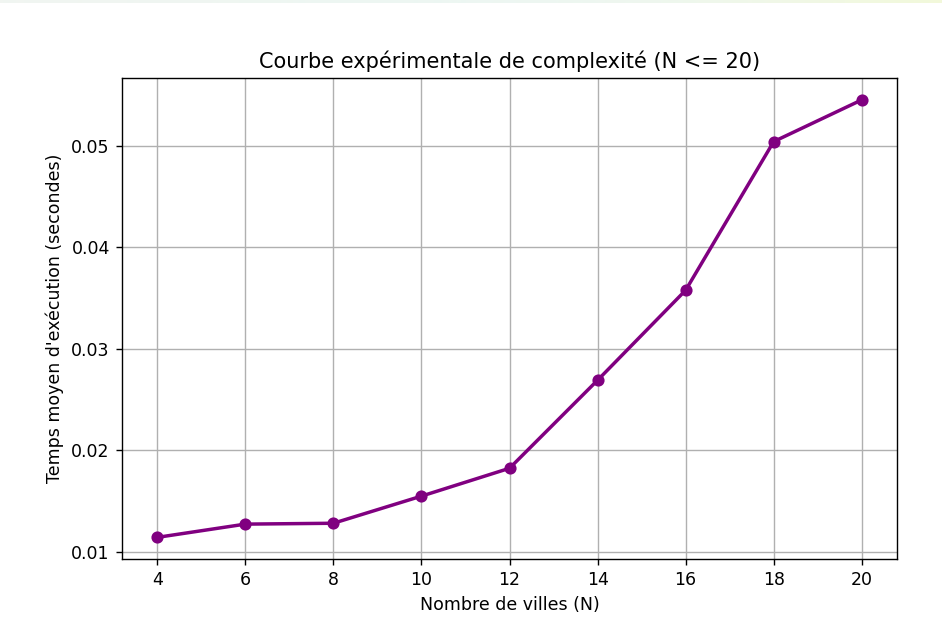
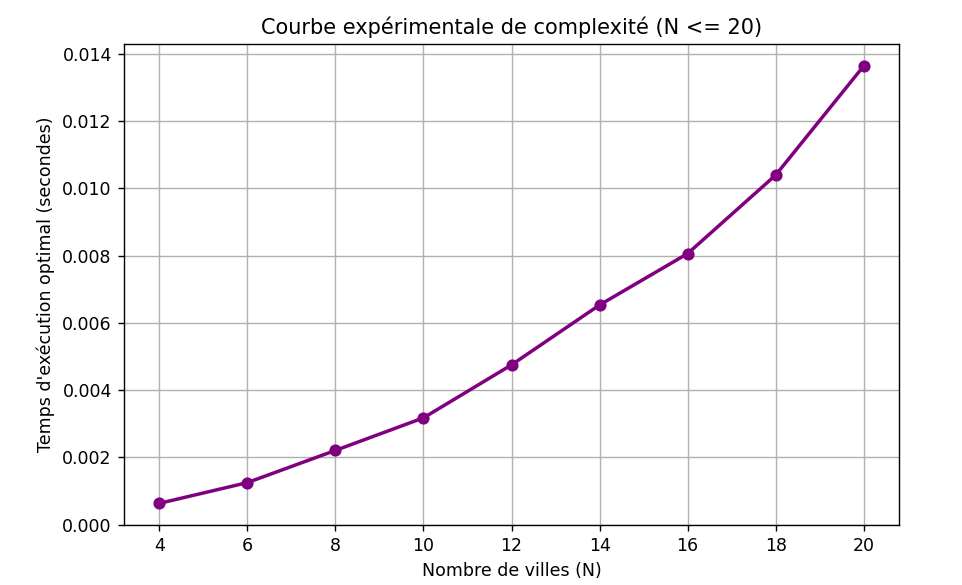
updated complexity

diff --git a/code/complexity.py b/code/complexity.py
@@ -1,27 +1,31 @@
 import time
 import matplotlib.pyplot as plt
 
-def evaluer_complexite(df_positions, main_func, tailles=[4, 6, 8, 10, 12, 14, 16, 18, 20], nb_tests=10):
+# 1. On passe nb_tests à 100 par défaut
+def evaluer_complexite(df_positions, main_func, tailles=[4, 6, 8, 10, 12, 14, 16, 18, 20], nb_tests=100):
+    # Lancement à blanc pour chauffer le processeur et charger la mémoire
+    main_func(df_positions.head(tailles[0]))
+
     temps_execution = []
 
     for n in tailles:
         df_sub = df_positions.head(n)
         
-        # Moyenne sur plusieurs passages pour éliminer le bruit processeur
         durees = []
         for _ in range(nb_tests):
             debut = time.perf_counter()
             main_func(df_sub)
             durees.append(time.perf_counter() - debut)
 
-        temps_moyen = sum(durees) / len(durees)
-        temps_execution.append(temps_moyen)
-        print(f"N = {n} villes : {temps_moyen:.4f} s")
+        # 2. On prend le temps minimum absolu au lieu de la moyenne
+        temps_retenu = min(durees)
+        temps_execution.append(temps_retenu)
+        print(f"N = {n} villes : {temps_retenu:.4f} s")
 
     plt.figure(figsize=(8, 5))
     plt.plot(tailles, temps_execution, marker='o', color='purple', linewidth=2)
     plt.xlabel("Nombre de villes (N)")
-    plt.ylabel("Temps moyen d'exécution (secondes)")
+    plt.ylabel("Temps d'exécution optimal (secondes)")
     plt.title("Courbe expérimentale de complexité (N <= 20)")
     plt.grid(True)
     plt.show()

diff --git a/code/distances.py b/code/distances.py
@@ -21,23 +21,22 @@ def haversine(lat1, lon1, lat2, lon2):
 
 def matrice_distances(df_positions):
     """ Prend le DataFrame des villes en entrée et retourne une matrice 
-    contenant les distances entre chaque paire de villes (poids des arrêtes du MST)
+    contenant les distances entre chaque paire de villes (poids des arêtes du MST)
     """
-
     nombre_villes = len(df_positions)
-
     matrice_distances = np.zeros((nombre_villes, nombre_villes))
 
-    # Boucle de calcul des distances
     for i in range(nombre_villes):
-        for j in range(nombre_villes):
-            if i != j:
-                lat1, lon1 =df_positions.iloc[i]['Latitude'], df_positions.iloc[i]['Longitude']
-                lat2, lon2 = df_positions.iloc[j]['Latitude'], df_positions.iloc[j]['Longitude']
-                matrice_distances[i][j] = haversine(lat1, lon1, lat2, lon2)
+        for j in range(i + 1, nombre_villes):
+            lat1, lon1 = df_positions.iloc[i]['Latitude'], df_positions.iloc[i]['Longitude']
+            lat2, lon2 = df_positions.iloc[j]['Latitude'], df_positions.iloc[j]['Longitude']
+            
+            d = haversine(lat1, lon1, lat2, lon2)
+            
+            matrice_distances[i][j] = d
+            matrice_distances[j][i] = d
+
     return matrice_distances
-
-
 if __name__ == "__main__":
 
     df_positions = pd.read_csv('../data/villes_france_lat_long.csv')
